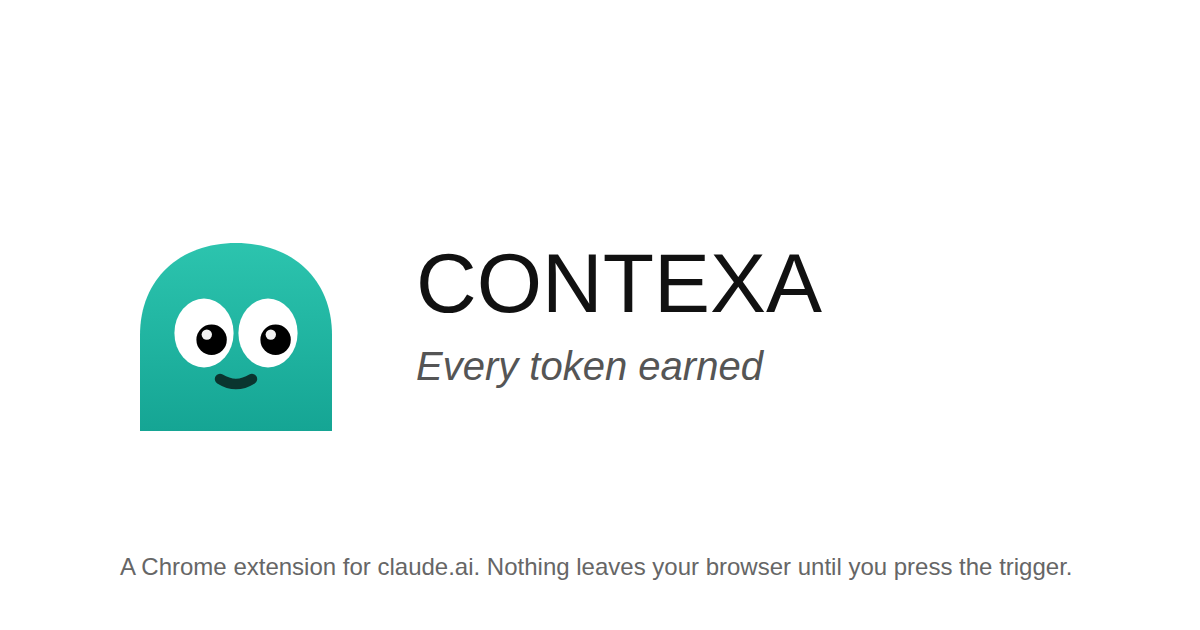
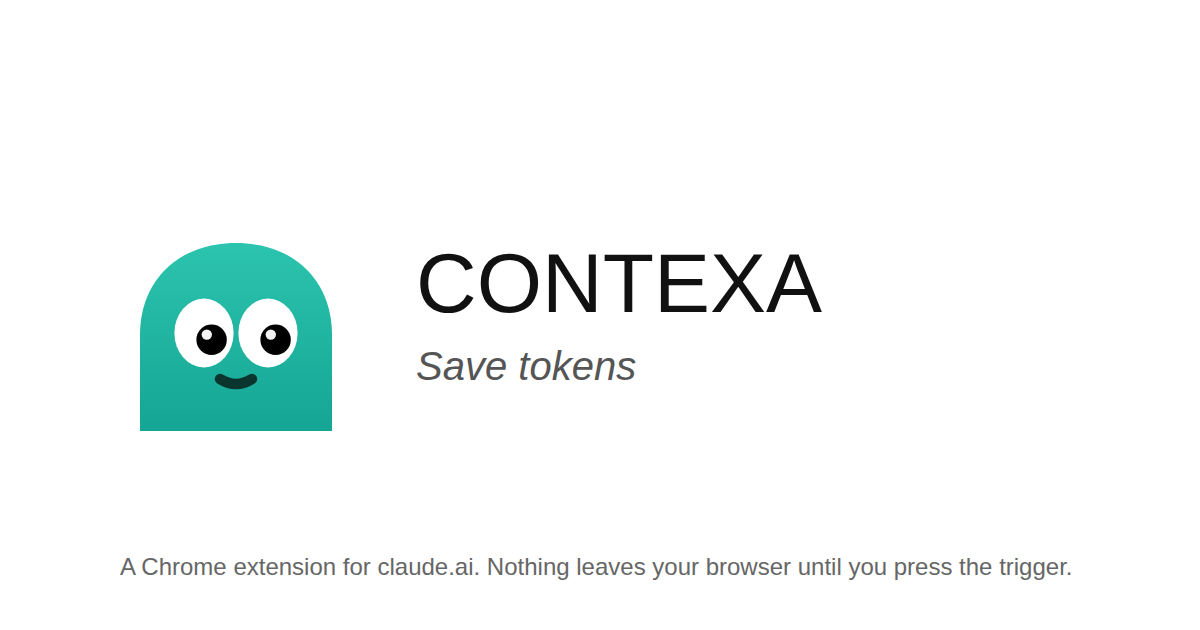
site: the social preview says "Save tokens"
The og board in scripts/website/assets.html still read "Every token earned" —
the last thing on the site carrying the pre-0.9.95 motto, and the one a link
preview shows before anyone reads a word. Re-rendered with
node scripts/website/render.mjs.

og:image:alt on all four pages moves with it, because the alt describes the
image that exists; changing one without the other is how an alt starts lying.
apple-touch-icon.png re-rendered byte-identical (mascot only), so it is not in
this diff.

Claude-Session: https://claude.ai/code/session_012ooZFRBpbsqrqxZUYopXW2

Changed region(s): [[0.3392, 0.5429, 0.6475, 0.6032]]

diff --git a/scripts/website/assets.html b/scripts/website/assets.html
@@ -22,7 +22,7 @@
   <svg viewBox="0 0 58 58" aria-hidden="true"><defs><linearGradient id="g1" x1="0" y1="0" x2="0" y2="1"><stop offset="0" stop-color="#2cc4ae"/><stop offset="1" stop-color="#15a594"/></linearGradient><linearGradient id="p1" gradientUnits="userSpaceOnUse" x1="0" y1="0" x2="58" y2="0"><stop offset="0" stop-color="#000"/><stop offset="1" stop-color="#000"/></linearGradient><linearGradient id="o1" gradientUnits="userSpaceOnUse" x1="0" y1="0" x2="58" y2="0"><stop offset="0" stop-color="#0a352f"/><stop offset="1" stop-color="#0a352f"/></linearGradient></defs><g transform="translate(0,8)"><path d="M29 3 C43 3 53 12 53 26 L53 50 L5 50 L5 26 C5 12 15 3 29 3 Z" fill="url(#g1)"/><ellipse cx="21" cy="25.5" rx="7.4" ry="8.6" fill="#fff"/><ellipse cx="37" cy="25.5" rx="7.4" ry="8.6" fill="#fff"/><circle cx="22.9" cy="27.2" r="3.8" fill="url(#p1)"/><circle cx="38.9" cy="27.2" r="3.8" fill="url(#p1)"/><circle cx="21.7" cy="25.9" r="1.3" fill="#fff" opacity=".95"/><circle cx="37.7" cy="25.9" r="1.3" fill="#fff" opacity=".95"/><path d="M25 37 Q29 39.5 33 37" stroke="url(#o1)" stroke-width="2.6" fill="none" stroke-linecap="round"/></g></svg>
   <div>
     <h1>CONTEXA</h1>
-    <p>Every token earned</p>
+    <p>Save tokens</p>
   </div>
   <p class="url">A Chrome extension for claude.ai. Nothing leaves your browser until you press the trigger.</p>
 </div>

diff --git a/publishing/website/index.html b/publishing/website/index.html
@@ -22,7 +22,7 @@
 <meta property="og:image:width" content="1200">
 <meta property="og:image:height" content="630">
 <meta property="og:image:type" content="image/png">
-<meta property="og:image:alt" content="The CONTEXA mascot, a teal rounded shape with two wide eyes, beside the words: Every token earned">
+<meta property="og:image:alt" content="The CONTEXA mascot, a teal rounded shape with two wide eyes, beside the words: Save tokens">
 <meta name="twitter:card" content="summary_large_image">
 <script src="/demo.js" defer></script>
 </head>

diff --git a/publishing/website/how-it-works/index.html b/publishing/website/how-it-works/index.html
@@ -22,7 +22,7 @@
 <meta property="og:image:width" content="1200">
 <meta property="og:image:height" content="630">
 <meta property="og:image:type" content="image/png">
-<meta property="og:image:alt" content="The CONTEXA mascot, a teal rounded shape with two wide eyes, beside the words: Every token earned">
+<meta property="og:image:alt" content="The CONTEXA mascot, a teal rounded shape with two wide eyes, beside the words: Save tokens">
 <meta name="twitter:card" content="summary_large_image">
 </head>
 <body>

diff --git a/publishing/website/notes/index.html b/publishing/website/notes/index.html
@@ -22,7 +22,7 @@
 <meta property="og:image:width" content="1200">
 <meta property="og:image:height" content="630">
 <meta property="og:image:type" content="image/png">
-<meta property="og:image:alt" content="The CONTEXA mascot, a teal rounded shape with two wide eyes, beside the words: Every token earned">
+<meta property="og:image:alt" content="The CONTEXA mascot, a teal rounded shape with two wide eyes, beside the words: Save tokens">
 <meta name="twitter:card" content="summary_large_image">
 </head>
 <body>

diff --git a/publishing/website/privacy/index.html b/publishing/website/privacy/index.html
@@ -22,7 +22,7 @@
 <meta property="og:image:width" content="1200">
 <meta property="og:image:height" content="630">
 <meta property="og:image:type" content="image/png">
-<meta property="og:image:alt" content="The CONTEXA mascot, a teal rounded shape with two wide eyes, beside the words: Every token earned">
+<meta property="og:image:alt" content="The CONTEXA mascot, a teal rounded shape with two wide eyes, beside the words: Save tokens">
 <meta name="twitter:card" content="summary_large_image">
 </head>
 <body>
